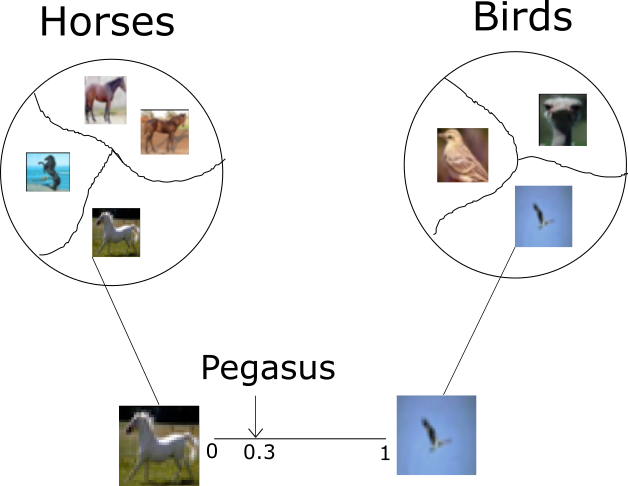
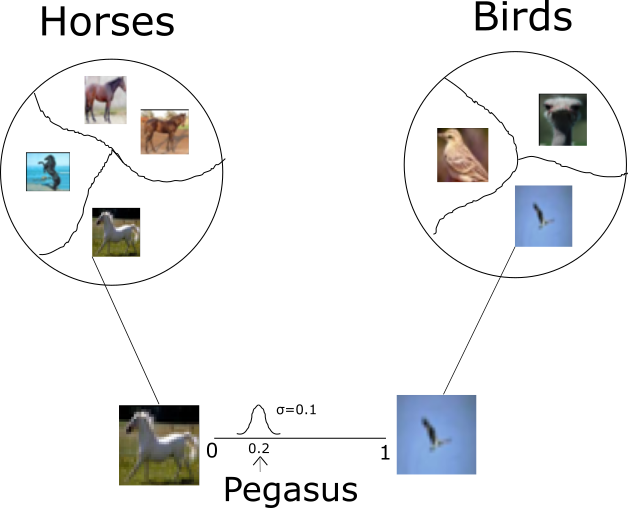
Add new normal interpolation to report

diff --git a/Pegasus/Report/paper.tex b/Pegasus/Report/paper.tex
@@ -39,7 +39,7 @@ The decoder is a mirror image of the encoder. It is comprised of 3 fully connect
     \includegraphics[width=0.45\textwidth]{figures/clustering.png}
 \end{center}
 
-Once the MMD-VAE is trained the horse and bird classes are subclassified and a pegasus generated through linear interpolation.
+Once the MMD-VAE is trained the horse and bird classes are subclassified and a pegasus generated through linear interpolation. The proportion of bird used is $w_b \sim \mathcal{N}(0.2, 0.1^2)$. The proportion of horse used is $w_h = 1-w_b$.
 
 \section{Methodology}
 The network reduces the MMD-VAE loss function \cite{infovae}. 
